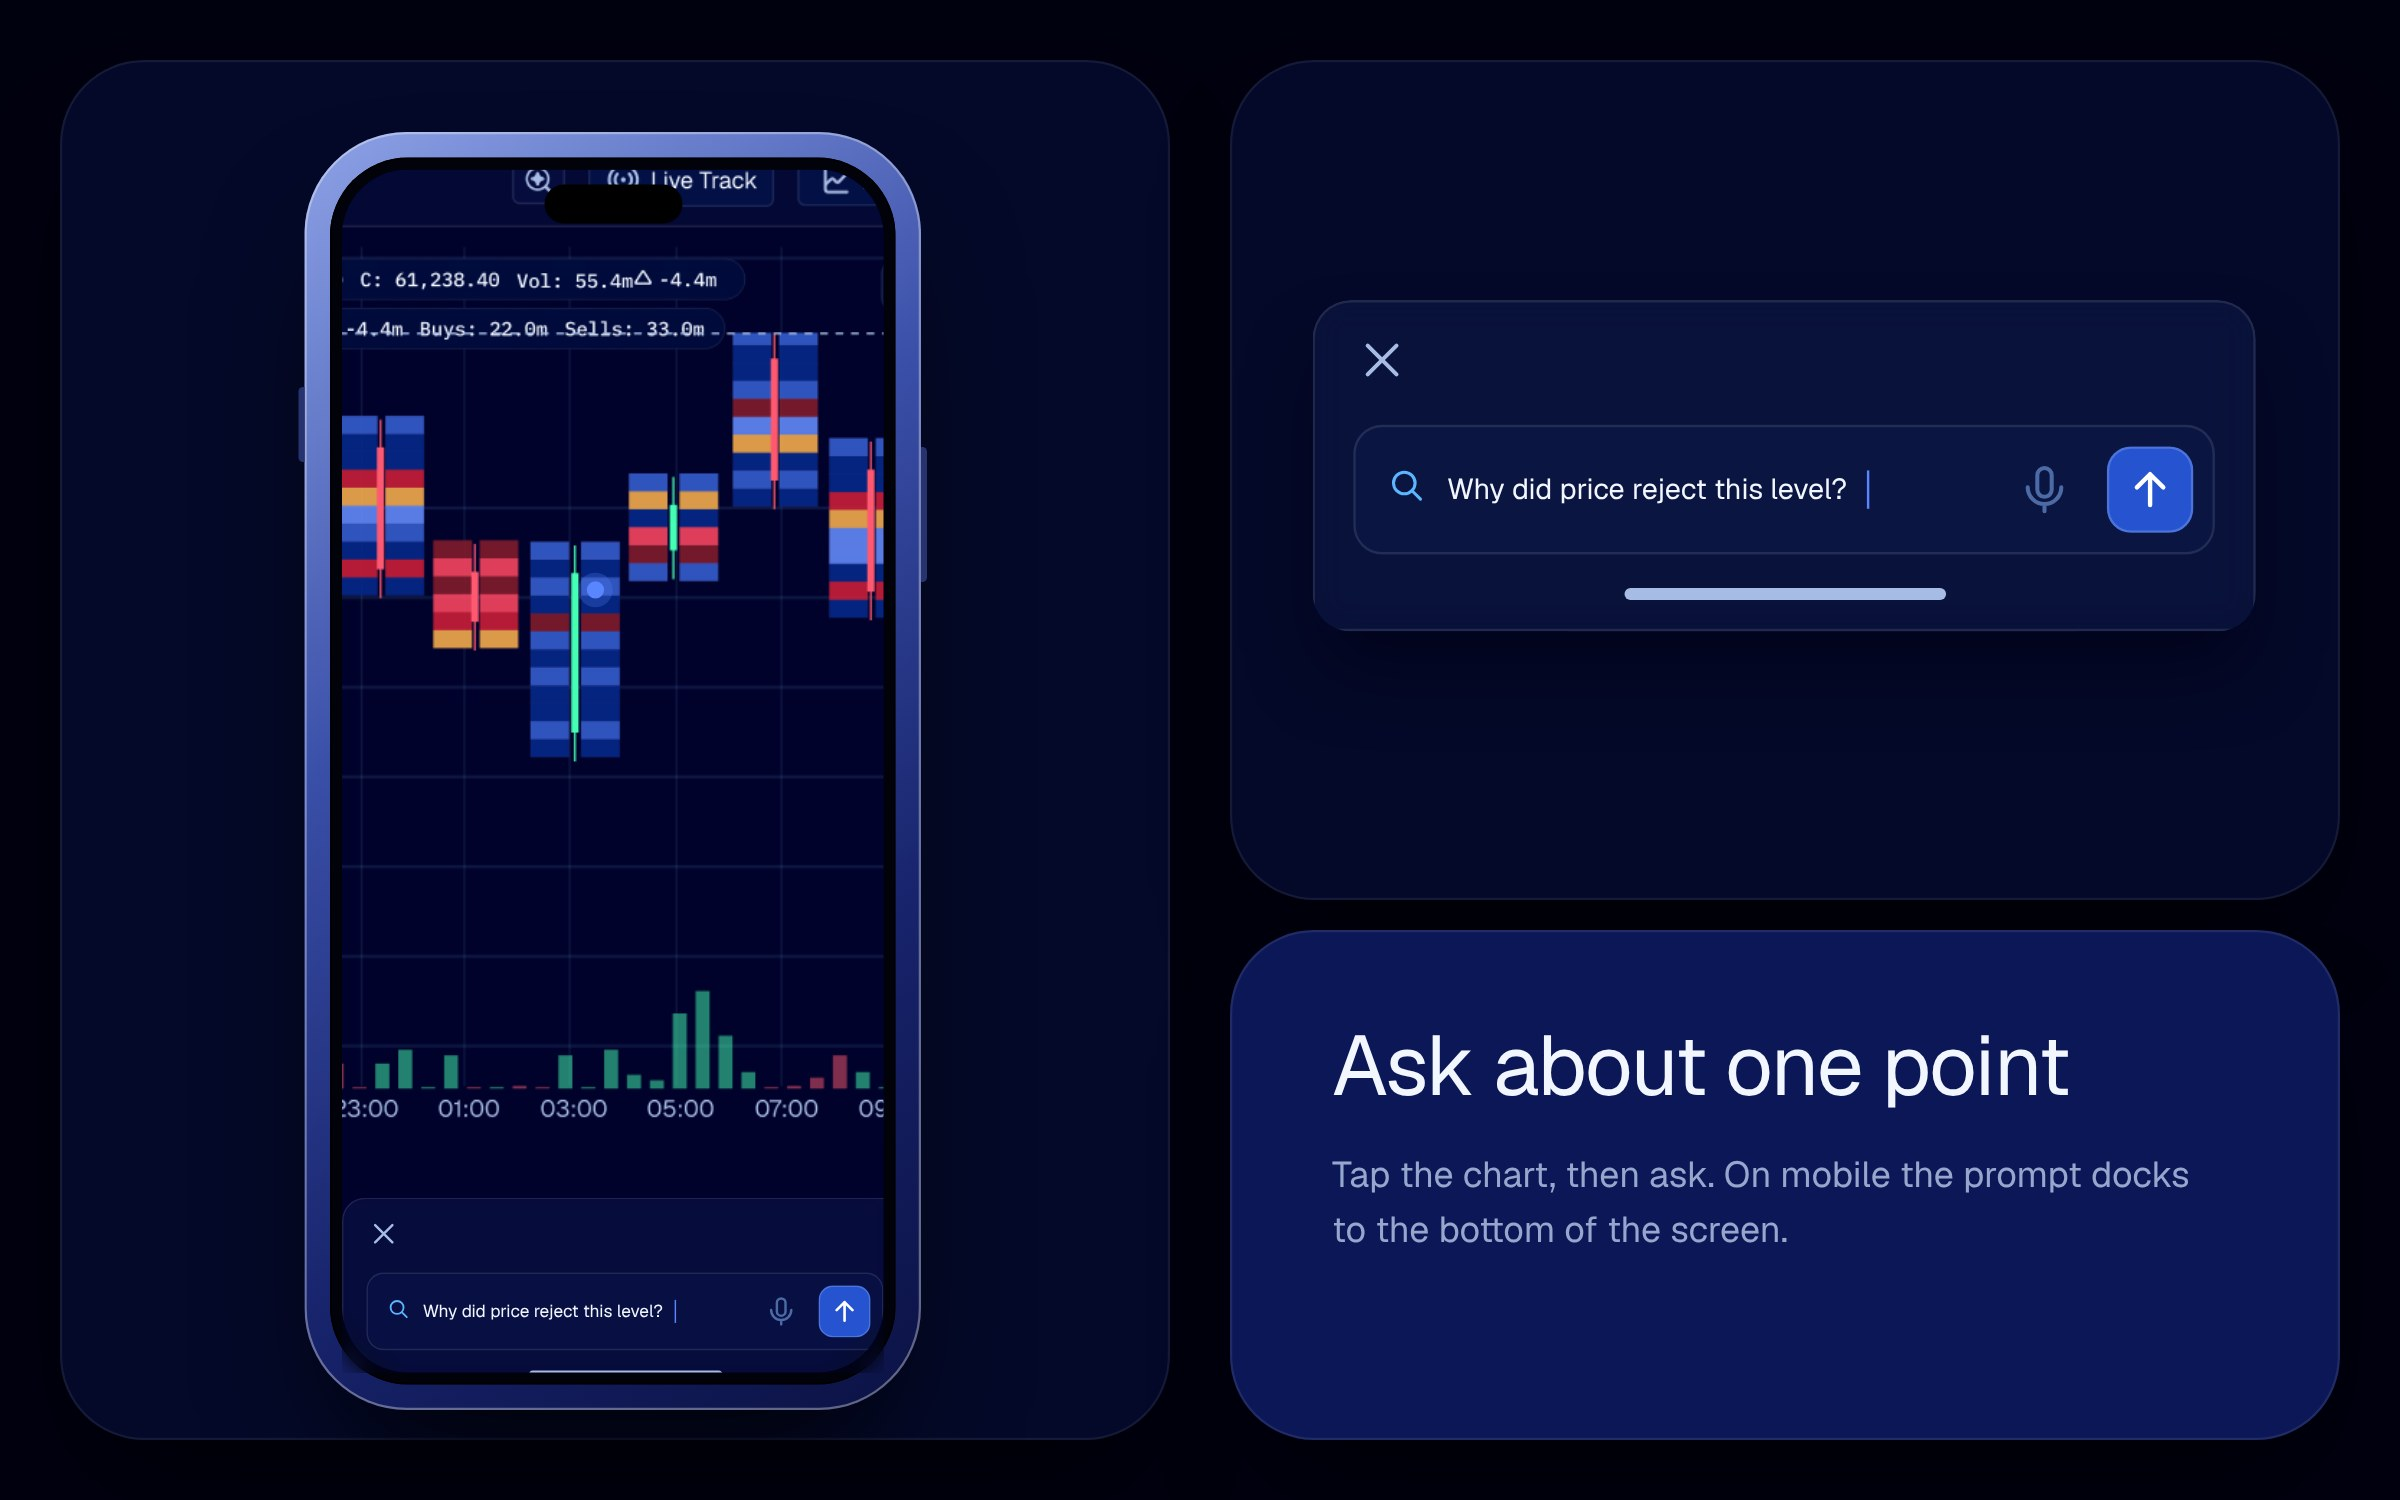
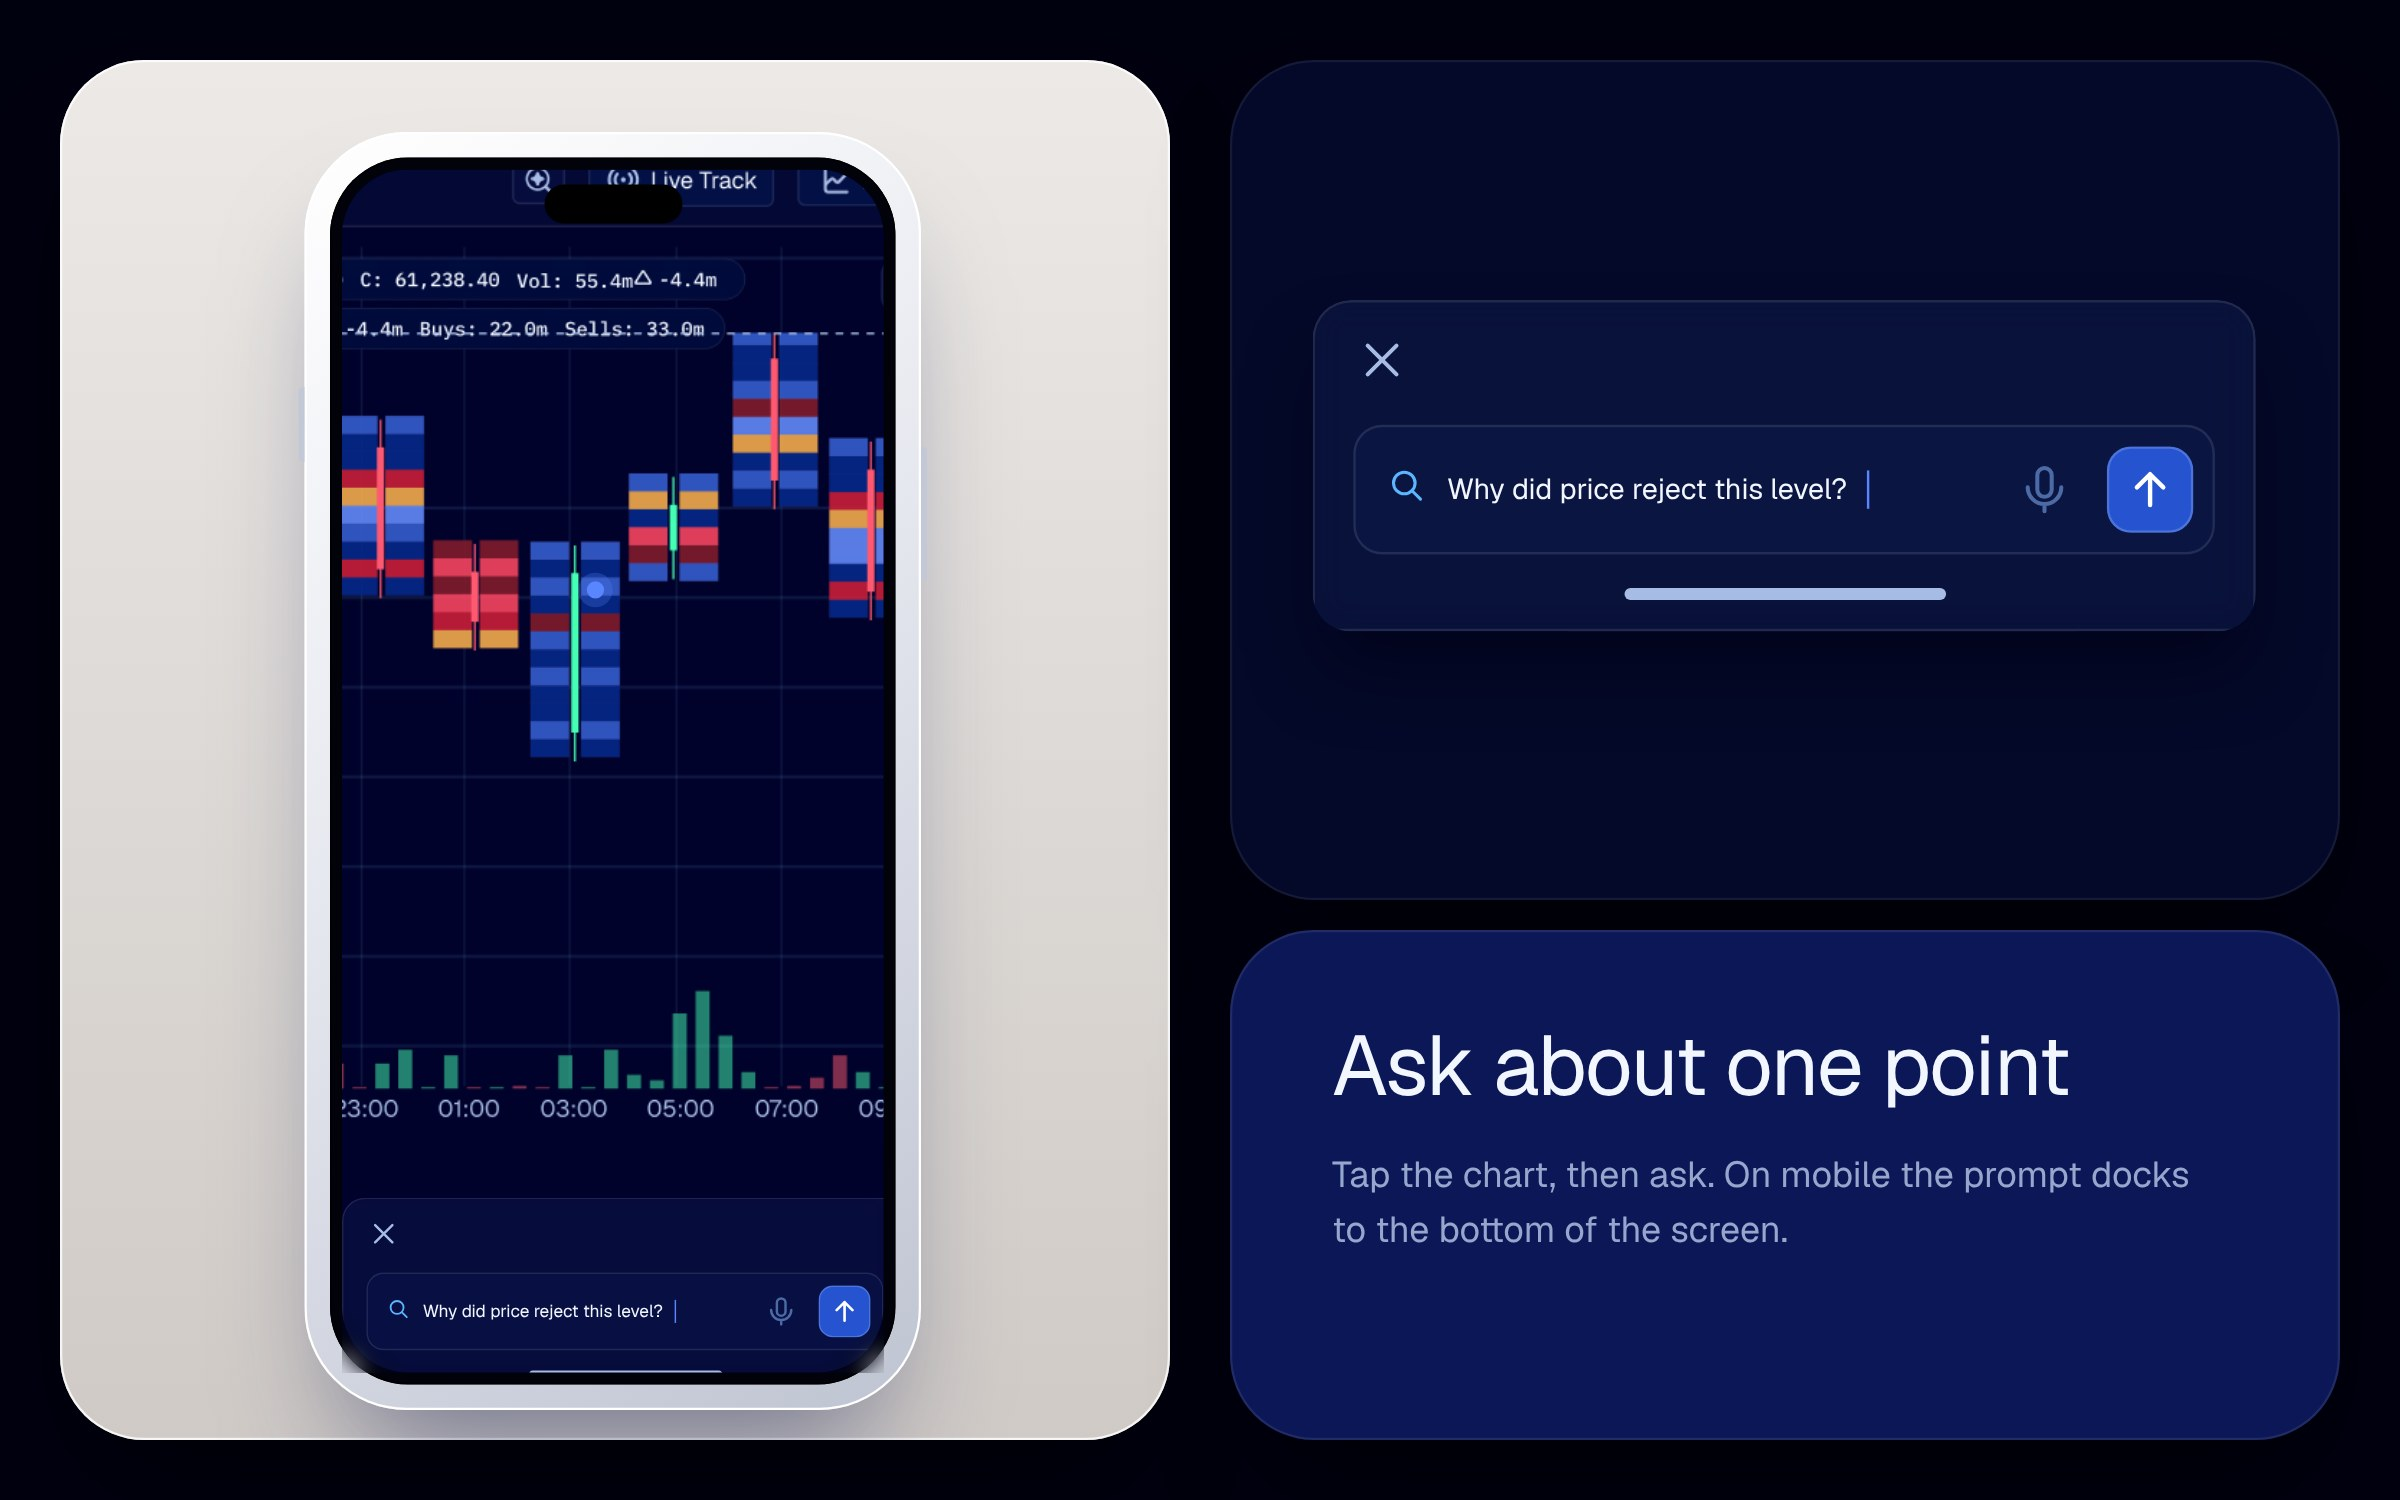
Jaadu modules: light grounds with white laptop and phone, UI colours unchanged
Claude-Session: https://claude.ai/code/session_01L48ecgvWMXiCwrAdC3aGTG

Changed region(s): [[0.0, 0.0307, 0.5, 0.9813]]

diff --git a/scripts/mockups/jaadu/modules.html b/scripts/mockups/jaadu/modules.html
@@ -13,17 +13,19 @@ body{margin:0;background:#fff}
 
 .plate{position:absolute;overflow:hidden;border-radius:56px;background:#040929;box-shadow:inset 0 0 0 1.5px rgba(255,255,255,.07),0 40px 80px -40px rgba(0,0,0,.9)}
 .glow{display:none}
+.plate.light{background:linear-gradient(180deg,#F1F2F6,#D6DAE5);box-shadow:inset 0 0 0 1.5px rgba(255,255,255,.9),0 40px 80px -40px rgba(0,0,0,.9)}
+.plate.warm{background:linear-gradient(180deg,#ECE9E6,#CFCAC6);box-shadow:inset 0 0 0 1.5px rgba(255,255,255,.8),0 40px 80px -40px rgba(0,0,0,.9)}
 .block{position:absolute;border-radius:56px;overflow:hidden;background:#0B1757;color:#F1F6FF;padding:60px 68px;box-sizing:border-box;box-shadow:inset 0 0 0 1.5px rgba(255,255,255,.09),0 40px 80px -40px rgba(0,0,0,.9)}
 .block h3{font-weight:400;font-size:56px;margin:0;letter-spacing:-.02em;line-height:1.1;color:#F1F6FF;position:relative;z-index:2}
 .block p{font-weight:400;font-size:24px;line-height:1.55;margin:22px 0 0;color:rgba(190,208,240,.78);max-width:580px;position:relative;z-index:2}
 .cr{position:absolute;overflow:hidden;z-index:2;box-shadow:0 30px 50px -10px rgba(0,0,20,.7)}
 .cr>div{transform-origin:0 0}
-.lap{position:absolute}.lap .lid{position:relative;background:#04050B;padding:14px 14px 16px;border-radius:26px 26px 6px 6px;box-shadow:inset 0 0 0 2px #2c2f3a,inset 0 0 0 3px #0c0d14,0 50px 90px -30px rgba(0,0,0,.9)}
+.lap{position:absolute}.lap .lid{position:relative;background:#04050B;padding:13px 13px 15px;border-radius:24px 24px 4px 4px;box-shadow:0 0 0 5px #F6F7FA,0 0 0 6px #C9CDD8,0 45px 70px -25px rgba(30,40,90,.55)}
 .lap .lid:before{content:"";position:absolute;left:50%;top:0;width:96px;height:20px;margin-left:-48px;background:#04050B;border-radius:0 0 12px 12px;z-index:3}
 .lap .lid:after{content:"";position:absolute;left:50%;top:6px;width:6px;height:6px;margin-left:-3px;border-radius:50%;background:#14172a;z-index:4}
-.lap .scr{position:relative;overflow:hidden;border-radius:10px;background:#00022b}.lap .scr>div{transform-origin:0 0}
-.lap .base{position:absolute;height:20px;background:linear-gradient(180deg,#E7E9F1 0%,#C4C8D6 55%,#8E93A6 100%);border-radius:0 0 26px 26px;box-shadow:0 30px 40px -12px rgba(0,0,0,.8),inset 0 1px 0 #fff}
-.lap .base:before{content:"";position:absolute;left:50%;top:0;width:180px;height:7px;margin-left:-90px;border-radius:0 0 10px 10px;background:linear-gradient(180deg,#8a8fa3,#b3b7c6)}
+.lap .scr{position:relative;overflow:hidden;border-radius:8px;background:#00022b}.lap .scr>div{transform-origin:0 0}
+.lap .base{position:absolute;height:22px;background:linear-gradient(180deg,#FFFFFF 0%,#EDEEF3 45%,#CDD0DB 100%);border-radius:0 0 28px 28px;box-shadow:0 34px 44px -14px rgba(30,40,90,.5),inset 0 1px 0 #fff}
+.lap .base:before{content:"";position:absolute;left:50%;top:0;width:190px;height:8px;margin-left:-95px;border-radius:0 0 12px 12px;background:linear-gradient(180deg,#C2C6D2,#E4E6EE)}
 .chip{position:absolute;z-index:4;display:flex;align-items:center;gap:12px;background:#F1F6FF;border-radius:999px;padding:13px 24px 13px 18px;font-weight:500;font-size:22px;color:#10153A;box-shadow:0 12px 28px -10px rgba(0,0,20,.7);white-space:nowrap}
 .chip i{width:14px;height:14px;border-radius:50%;background:var(--c,#5985ff)}
 .dl{z-index:4;position:absolute;left:0;top:0;overflow:visible;pointer-events:none}
@@ -33,7 +35,7 @@ body{margin:0;background:#fff}
 <script>
 const cr=(html,w,h,k,l,t,r=10,extra='')=>`<div class="cr" style="left:${l}px;top:${t}px;width:${w*k}px;height:${h*k}px;border-radius:${r*k}px;${extra}"><div style="transform:scale(${k});width:${w}px;height:${h}px">${html}</div></div>`
 const lap=(scr,k,l,t,w=1440,h=900)=>`<div class="lap" style="left:${l}px;top:${t}px"><div class="lid"><div class="scr" style="width:${w*k}px;height:${h*k}px"><div style="transform:scale(${k});width:${w}px;height:${h}px">${scr}</div></div></div><div class="base" style="left:-30px;right:-30px;bottom:-22px"></div></div>`
-const plate=(l,t,w,h,inner)=>{const a=(l*7+t*3)%5;const gx=[.1,.55,.3,.7,.4][a]*(w-300),gy=[.3,.0,.5,.2,.6][a]*(h-200);return `<div class="plate" style="left:${l}px;top:${t}px;width:${w}px;height:${h}px"><div class="glow" style="left:${gx}px;top:${gy}px"></div>${inner}</div>`}
+const plate=(l,t,w,h,inner,cls='')=>{const a=(l*7+t*3)%5;const gx=[.1,.55,.3,.7,.4][a]*(w-300),gy=[.3,.0,.5,.2,.6][a]*(h-200);return `<div class="plate ${cls}" style="left:${l}px;top:${t}px;width:${w}px;height:${h}px"><div class="glow" style="left:${gx}px;top:${gy}px"></div>${inner}</div>`}
 const block=(l,t,w,h,a,b)=>`<div class="block" style="left:${l}px;top:${t}px;width:${w}px;height:${h}px"><h3>${a}</h3><p>${b}</p></div>`
 const call=(w,h,x1,y1,x2,y2,c,txt,cx,cy)=>`<svg class="dl" width="${w}" height="${h}"><path d="M${x1} ${y1} L${x2} ${y2}" fill="none" stroke="#7F93C4" stroke-width="3" stroke-dasharray="3 9" stroke-linecap="round"/><circle cx="${x1}" cy="${y1}" r="9" fill="${c}" stroke="#fff" stroke-width="3"/></svg><div class="chip" style="--c:${c};left:${cx}px;top:${cy}px"><i></i>${txt}</div>`
 let MI=0;const ORB=[['#00E5FF',.9],['#5985FF',.95],['#7B5CFF',.8],['#45FFB5',.55]]
@@ -41,14 +43,14 @@ const mod=(id,h,inner)=>{const r=(n)=>{MI++;return ((Math.sin(MI*12.9898+n*78.23
 const N='box-shadow:none;overflow:visible';const M=[]
 // 1 spread: overnight (standout)
 M.push(mod('m-overnight',1000,
- plate(40,40,740,920,lap(screenOvernight(),.9,40,150))+
+ plate(40,40,740,920,lap(screenOvernight(),.9,40,150),'light')+
  plate(820,40,740,560,cr(campaign(),893,259,1.2,72,150))+
  block(820,620,740,340,'Set it up. Wake to a shortlist','Pick coins and a timeframe. Jaadu runs three falsification stages overnight and keeps what survives.')))
 // 2 spotlight: footprint chart on a laptop (real Figma chart frame 1058:32183 inside the terminal screen)
 M.push(mod('m-footprint',1080,plate(40,40,1520,1000,
  lap(screenFootprint(),.93,90,90)+
  call(1520,1000,880,415,1130,215,'#5985ff','Regime read beside the price',880,150)+
- call(1520,1000,620,560,430,930,'#ffbd67','Each candle splits into price bins',230,915))))
+ call(1520,1000,620,560,430,930,'#ffbd67','Each candle splits into price bins',230,915),'light')))
 // 3 bento: market panels
 M.push(mod('m-panels',1000,
  plate(40,40,1520,300,cr(regime(912),912,116,1.45,99,66,16))+
@@ -59,7 +61,7 @@ M.push(mod('m-panels',1000,
 M.push(mod('m-settings',1000,
  plate(40,40,740,560,cr(fpSettings(),640,401,1.2,56,70,24))+
  block(40,620,740,340,'One chart, your way','Four display modes and a volume profile, set in one panel. Each candle splits into price cells.')+
- plate(820,40,740,920,lap(screenFootprint(),.9,-20,150))))
+ plate(820,40,740,920,lap(screenFootprint(),.9,-20,150),'light')))
 // 5 spotlight regime
 M.push(mod('m-regime',560,plate(40,40,1520,480,
  cr(regime(912),912,116,1.55,50,100,16)+
@@ -75,9 +77,9 @@ M.push(mod('m-library',1000,
  plate(40,530,940,430,cr(equity(),891,280,1.2,40,60,12))+
  plate(1000,530,560,430,cr(paramDiff(),891,217,1.0,40,100,12))))
 // 8 spread: mobile chart prompt (real mobile frame 3644:206616)
-const phone=(scr,k,l,t)=>`<div style="position:absolute;left:${l}px;top:${t}px;width:${393*k+34}px;height:${852*k+34}px;border-radius:${68}px;padding:17px;box-sizing:border-box;background:linear-gradient(145deg,#8DA2E6 0%,#3A4FA8 38%,#17236B 70%,#0B1244 100%);box-shadow:0 50px 90px -30px rgba(0,0,0,.9),inset 0 0 0 1.5px rgba(255,255,255,.35)"><div style="position:relative;width:100%;height:100%;border-radius:52px;background:#02030A;padding:8px;box-sizing:border-box;box-shadow:inset 0 0 0 1px #000"><div style="position:relative;width:100%;height:100%;border-radius:44px;overflow:hidden"><div style="transform:scale(${k});transform-origin:0 0;width:393px;height:852px">${scr}</div></div><i style="position:absolute;left:50%;top:18px;width:92px;height:26px;margin-left:-46px;border-radius:14px;background:#000;z-index:5"></i></div><i style="position:absolute;right:-4px;top:210px;width:4px;height:90px;border-radius:0 3px 3px 0;background:#26336f"></i><i style="position:absolute;left:-4px;top:170px;width:4px;height:50px;border-radius:3px 0 0 3px;background:#26336f"></i></div>`
+const phone=(scr,k,l,t)=>`<div style="position:absolute;left:${l}px;top:${t}px;width:${393*k+34}px;height:${852*k+34}px;border-radius:${68}px;padding:17px;box-sizing:border-box;background:linear-gradient(145deg,#FFFFFF 0%,#E6E8EF 45%,#BFC4D2 100%);box-shadow:0 50px 80px -30px rgba(30,40,90,.55),inset 0 0 0 1.5px #fff"><div style="position:relative;width:100%;height:100%;border-radius:52px;background:#02030A;padding:8px;box-sizing:border-box;box-shadow:inset 0 0 0 1px #000"><div style="position:relative;width:100%;height:100%;border-radius:44px;overflow:hidden"><div style="transform:scale(${k});transform-origin:0 0;width:393px;height:852px">${scr}</div></div><i style="position:absolute;left:50%;top:18px;width:92px;height:26px;margin-left:-46px;border-radius:14px;background:#000;z-index:5"></i></div><i style="position:absolute;right:-4px;top:210px;width:4px;height:90px;border-radius:0 3px 3px 0;background:#C3C8D6"></i><i style="position:absolute;left:-4px;top:170px;width:4px;height:50px;border-radius:3px 0 0 3px;background:#C3C8D6"></i></div>`
 M.push(mod('m-mobile',1000,
- plate(40,40,740,920,phone(screenMobile(),.96,163,48))+
+ plate(40,40,740,920,phone(screenMobile(),.96,163,48),'warm')+
  plate(820,40,740,560,cr(promptCard(),393,138,1.6,55,160,16))+
  block(820,620,740,340,'Ask about one point','Tap the chart, then ask. On mobile the prompt docks to the bottom of the screen.')))
 // 9 bento design system
